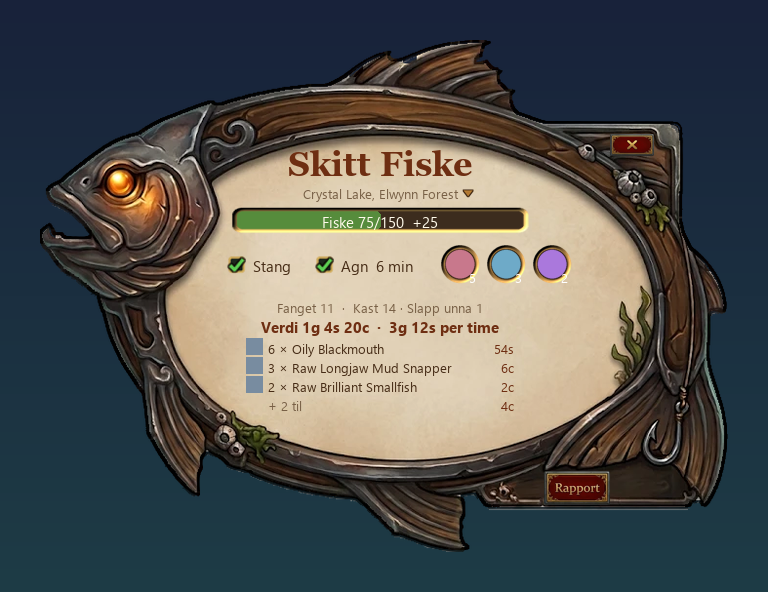
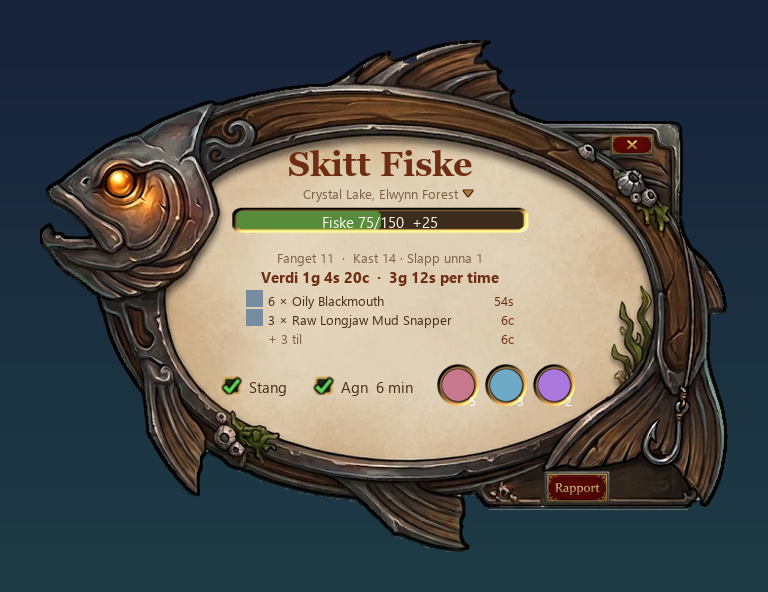
Info table under the skill bar; pole, lure and lure rings centred on one line at the bottom, a bit larger

Changed region(s): [[0.2812, 0.3953, 0.75, 0.6993]]

diff --git a/tools/render_media.py b/tools/render_media.py
@@ -19,10 +19,10 @@ LAYOUT = {
     "crop": (168, 856),
     "title": 104, "zone": 144,
     "bar": (358, 166, 300, 28),
-    "line2": 214, "pole": 354, "lure": 442,
-    "rings": (568, 204, 40, 46),
+    "summary": 208, "value": 226, "rows": 250, "row_step": 19,
     "list": (364, 288),
-    "summary": 258, "value": 276, "rows": 298, "row_step": 19,
+    "line2": 334, "line_x": 528, "pole": 92, "lure": 124,
+    "rings": (323, 44, 48),
     "report": (672, 431, 66, 34),
     "close": (738, 94, 44, 22),
 }
@@ -237,25 +237,27 @@ def preview():
     d.rounded_rectangle([x + 4, y + 4, x + 4 + (bw - 8) * 0.5, y + bh - 4], radius=6, fill=(86, 140, 60))
     img.alpha_composite(barf.resize((bw, bh)), (int(x), int(y)))
     ctext(bx + bw / 2, by + 5, "Fiske 75/150  +25", txt, (255, 250, 235))
-    for x0, t in ((L["pole"], "Stang"), (L["lure"], "Agn  6 min")):
-        b = box.resize((21, 21))
-        img.alpha_composite(b, tuple(int(v) for v in P(x0, L["line2"])))
-        img.alpha_composite(check.resize((21, 21)), tuple(int(v) for v in P(x0, L["line2"])))
-        d.text(P(x0 + 27, L["line2"] + 1), t, font=txt, fill=INK)
-    rx, ry, rs, rstep = L["rings"]
+    ry, rs, rstep = L["rings"]
+    total = L["pole"] + L["lure"] + 3 * rstep
+    x = L["line_x"] - total / 2
+    for x0, t in ((x, "Stang"), (x + L["pole"], "Agn  6 min")):
+        img.alpha_composite(box.resize((23, 23)), tuple(int(v) for v in P(x0, L["line2"])))
+        img.alpha_composite(check.resize((23, 23)), tuple(int(v) for v in P(x0, L["line2"])))
+        d.text(P(x0 + 29, L["line2"] + 2), t, font=txt, fill=INK)
+    rx = x + L["pole"] + L["lure"]
     for i, colr in enumerate(((200, 120, 140), (110, 170, 200), (170, 120, 220))):
-        x, y = P(rx + i * rstep, ry)
-        d.ellipse([x + 5, y + 5, x + rs - 5, y + rs - 5], fill=colr)
-        img.alpha_composite(ring.resize((rs, rs)), (int(x), int(y)))
-        d.text((x + rs - 11, y + rs - 16), str((5, 3, 2)[i]), font=small, fill=(255, 255, 255))
+        x1, y1 = P(rx + i * rstep, ry)
+        d.ellipse([x1 + 5, y1 + 5, x1 + rs - 5, y1 + rs - 5], fill=colr)
+        img.alpha_composite(ring.resize((rs, rs)), (int(x1), int(y1)))
+        d.text((x1 + rs - 11, y1 + rs - 16), str((5, 3, 2)[i]), font=small, fill=(255, 255, 255))
     x0, w = L["list"]
     ctext(508, L["summary"], "Fanget 11  ·  Kast 14 · Slapp unna 1", small, (120, 96, 70))
     ctext(508, L["value"], "Verdi 1g 4s 20c  ·  3g 12s per time", bold, HEAD)
-    for i, (t, v) in enumerate((("6 × Oily Blackmouth", "54s"), ("3 × Raw Longjaw Mud Snapper", "6c"), ("2 × Raw Brilliant Smallfish", "2c"), ("+ 2 til", "4c"))):
+    for i, (t, v) in enumerate((("6 × Oily Blackmouth", "54s"), ("3 × Raw Longjaw Mud Snapper", "6c"), ("+ 3 til", "6c"))):
         y = L["rows"] + i * L["row_step"]
-        if i < 3:
+        if i < 2:
             d.rectangle([P(x0 + 10, y), (P(x0 + 10, y)[0] + 16, P(x0 + 10, y)[1] + 16)], fill=(120, 140, 160))
-        d.text(P(x0 + 32, y + 1), t, font=small, fill=INK if i < 3 else (120, 96, 70))
+        d.text(P(x0 + 32, y + 1), t, font=small, fill=INK if i < 2 else (120, 96, 70))
         vw = d.textlength(v, font=small)
         d.text((P(x0 + w - 10, y)[0] - vw, P(x0, y + 1)[1]), v, font=small, fill=HEAD)
     x, y, w, h = L["report"]
